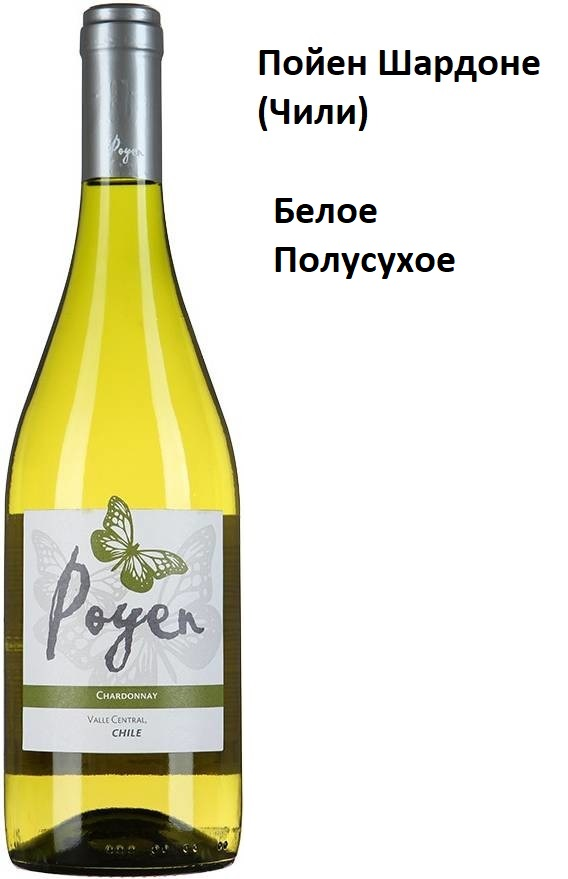
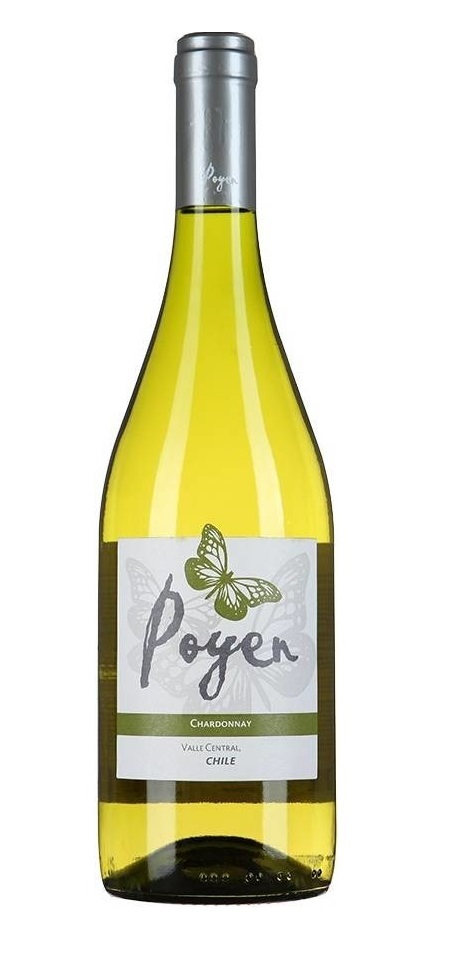
z

diff --git a/js/index.js b/js/index.js
@@ -1,3 +1,18 @@
+
+// {
+//     title: 'Чили',
+//     name: 'Chile',
+//     items: [
+//         {
+//             img: '01.jpg',
+//             name: 'Название вина',
+//             type: 'Белое полусухое',
+//             grapes: 'Сорт винограда',
+//             about: ['', '']
+//         },
+//     ]
+// },
+
 new Vue({
     el: '#container',
     data: {
@@ -6,11 +21,12 @@ new Vue({
                 title: 'Чили',
                 name: 'Chile',
                 items: [
-                    { img: '01.jpg', name: '', about: [] },
-                    { img: '02.jpg', name: '', about: [] },
-                    { img: '03.jpg', name: '', about: [] },
+                    { img: '03.jpg', name: 'Poyen Chardonnay',         type: 'Белое полусухое', about: [] },
+                    { img: '06.jpg', name: 'Poyen Chardonnay Reserva', type: 'Белое сухое',     about: [] },
                     { img: '04.jpg', name: '', about: [] },
+                    { img: '02.jpg', name: '', about: [] },
                     { img: '05.jpg', name: '', about: [] },
+                    { img: '01.jpg', name: '', about: [] },
                 ]
             },
             {
@@ -23,6 +39,7 @@ new Vue({
                     { img: '04.jpg', name: '', about: [] },
                     { img: '05.jpg', name: '', about: [] },
                     { img: '06.jpg', name: '', about: [] },
+                    { img: '07.jpg', name: '', about: [] },
                 ]
             },
             {
@@ -30,6 +47,13 @@ new Vue({
                 name: 'Spain',
                 items: [
                     { img: '01.jpg', name: '', about: [] },
+                ]
+            },
+            {
+                title: 'Италия',
+                name: 'Italy',
+                items: [
+                    { img: '01.jpg', name: 'Fantinel Pinot Grigio Borgo Tesis', type: 'Белое сухое', grapes: 'Пино Гриджио', about: [] },
                 ]
             },
             {
@@ -42,21 +66,12 @@ new Vue({
                 ]
             },
 
-
             {
                 title: 'Болгария',
                 name: 'Bulgaria',
                 items: [
-                    {
-                        img: '01.jpg',
-                        name: '',
-                        about: ['Красное полусладкое', 'Дешевое и неплохое'],
-                    },
-                    {
-                        img: '02.jpg',
-                        name: '',
-                        about: ['Красное полусладкое', 'Дешевое и неплохое, не особо сладкое'],
-                    },
+                    { img: '01.jpg', name: '',  about: ['Красное полусладкое', 'Дешевое и неплохое'] },
+                    { img: '02.jpg', name: '', about: ['Красное полусладкое', 'Дешевое и неплохое, не особо сладкое'] },
                 ]
             },
             {

diff --git a/index.html b/index.html
@@ -19,6 +19,8 @@
                         <img class="wine-img" :src="'wine' + '/' + category.name + '/' + item.img" />
                     </a>
                     <h3 class="wine-name" v-html="item.name"></h3>
+                    <div class="wine-type" v-html="item.type"></div>
+                    <div class="wine-grapes" v-html="item.grapes"></div>
                     <ul class="wine-about">
                         <li v-for="list in item.about" v-html="list"></li>
                     </ul>

diff --git a/css/index.css b/css/index.css
@@ -1,7 +1,6 @@
 body {
     font-family: sans-serif;
     background-color: #f8f9fa;
-    line-height: 1.7;
 }
 
 .wine-wrapper {
@@ -44,4 +43,12 @@ body {
 .wine-name {
     margin: 0;
     padding: 10px;
+}
+.wine-type {
+    padding: 10px;
+    text-decoration: underline;
+}
+.wine-grapes {
+    padding: 10px;
+    color: gray;
 }

diff --git a/README.md b/README.md
@@ -1,0 +1,15 @@
+### Сорт винограда
+- Карменера сорт винограда Чили
+
+### Талисман
+- Грузия. Производитель: Талисман
+- Магазин: Метро (8 марта / Карпинского ?) 
+
+
+```
+Алазанская долина - Саперави, Александроули, Оджалеши
+Ахашени           - Саперави
+Киндзмараули      - Саперави
+Хванчкара         - Александроули, Муджуретули
+```
+
